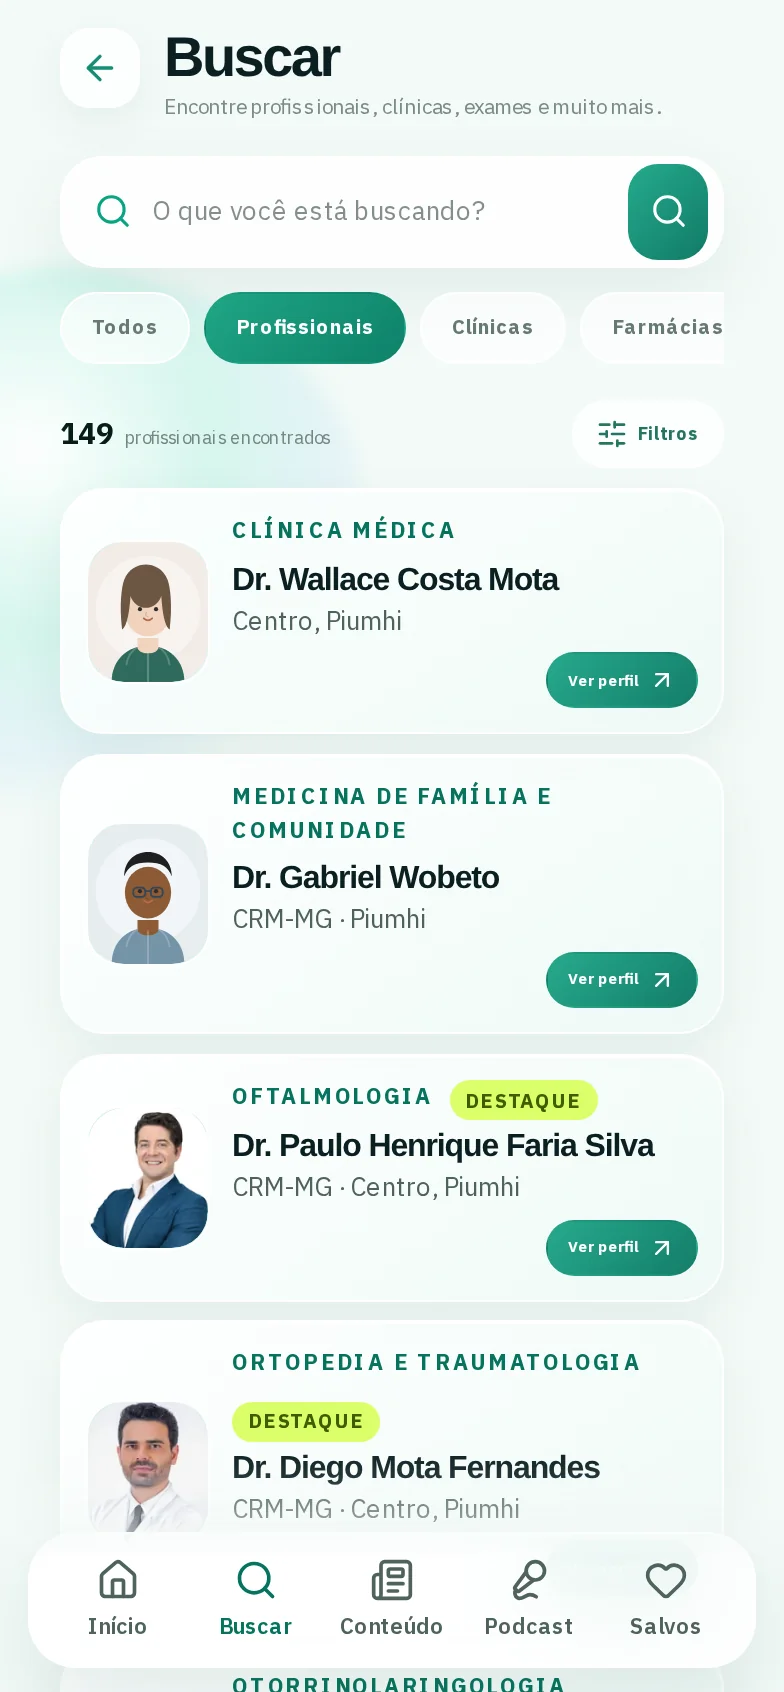
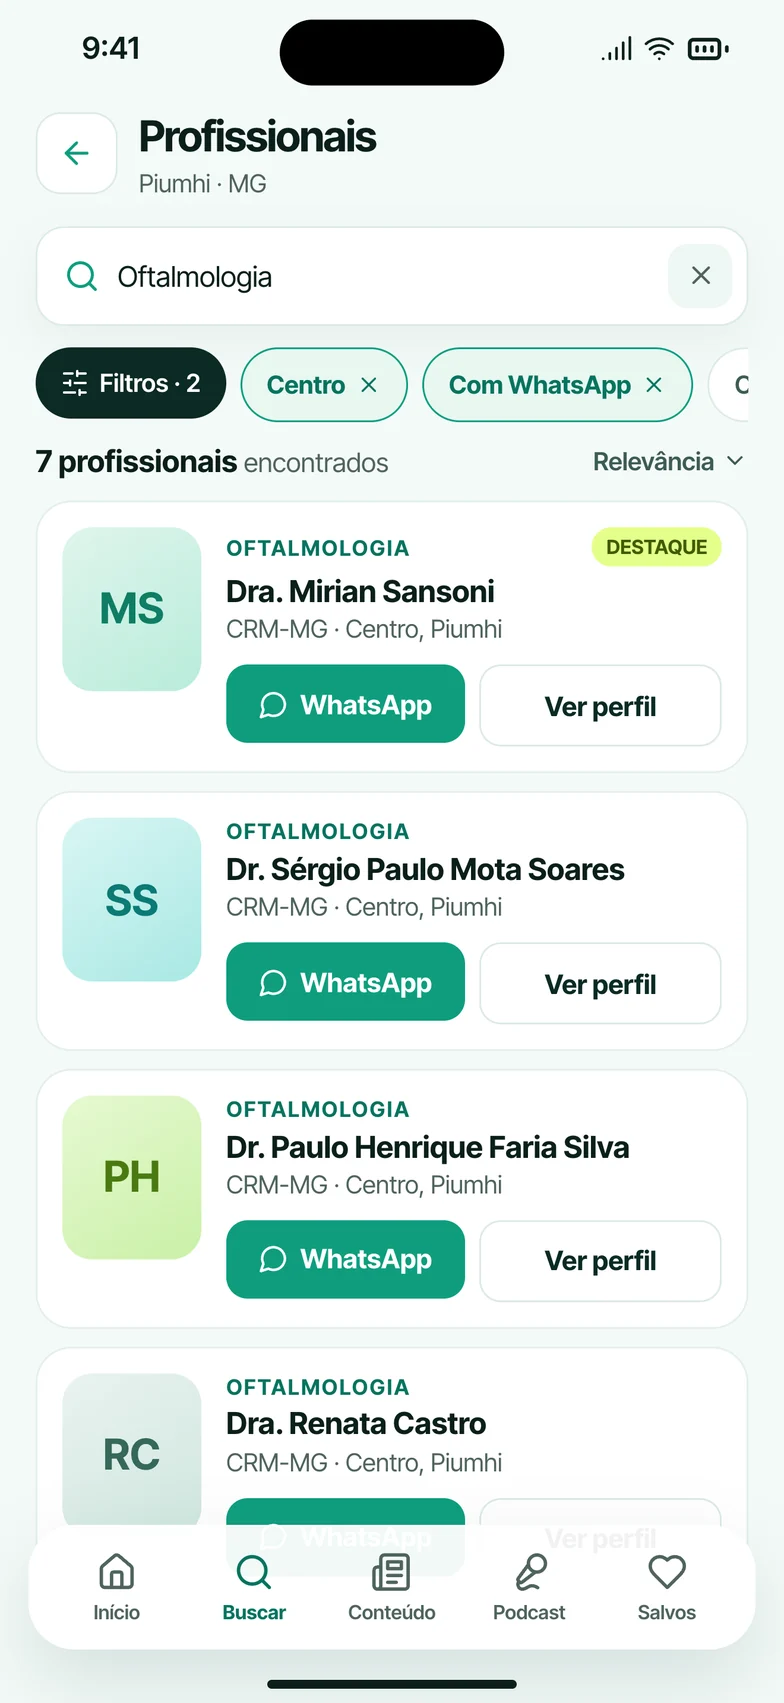
Guia Saúde: usa as telas do app enviadas
- Substitui as capturas do site pelas 5 telas do app (início,
  profissionais, perfil, clínicas e serviços, conteúdos), em WebP
  784x1703, e remove as capturas que ficaram sem uso.
- Três jornadas e textos ajustados ao que as telas mostram; grade
  isométrica com 5 telas; fileira com as 5 telas (centralizada em telas
  grandes).
- Sem notch sobreposto: as telas já trazem barra de status e ilha.

Claude-Session: https://claude.ai/code/session_01RL4gpbQEMJyEMfkodK1G9J

diff --git a/public/projetos/guia-saude/index.html b/public/projetos/guia-saude/index.html
@@ -48,9 +48,9 @@
       </div>
       <div class="a-hero-art" aria-label="Telas do Guia Saúde empilhadas em perspectiva">
         <div class="a-iso a-iso-phones">
-          <div class="a-iso-layer" style="--i:0"><img src="./gs-perfil.webp" alt="Perfil de profissional no Guia Saúde" width="784" height="1692"></div>
-          <div class="a-iso-layer" style="--i:1"><img src="./gs-buscar.webp" alt="Busca de profissionais no Guia Saúde" width="784" height="1692"></div>
-          <div class="a-iso-layer" style="--i:2"><img src="./gs-home.webp" alt="Tela inicial do Guia Saúde" width="784" height="1692"></div>
+          <div class="a-iso-layer" style="--i:0"><img src="./gs-perfil.webp" alt="Perfil de profissional no Guia Saúde" width="784" height="1703"></div>
+          <div class="a-iso-layer" style="--i:1"><img src="./gs-buscar.webp" alt="Busca de profissionais no Guia Saúde" width="784" height="1703"></div>
+          <div class="a-iso-layer" style="--i:2"><img src="./gs-home.webp" alt="Tela inicial do Guia Saúde" width="784" height="1703"></div>
         </div>
       </div>
     </div>
@@ -101,8 +101,8 @@
   <section class="a-showcase" aria-label="O Guia Saúde no computador e no celular">
     <div class="wrap a-showcase-stage a-reveal">
       <div class="browser browser-lg"><span class="dots"></span><img src="./gs-w-home.webp" alt="Guia Saúde no navegador" loading="lazy" width="1600" height="1000"></div>
-      <div class="a-phone"><img src="./gs-home.webp" alt="Guia Saúde no celular" loading="lazy" width="784" height="1692"></div>
-      <div class="a-phone a-phone-2"><img src="./gs-perfil.webp" alt="Perfil de profissional no celular" loading="lazy" width="784" height="1692"></div>
+      <div class="a-phone"><img src="./gs-home.webp" alt="Guia Saúde no celular" loading="lazy" width="784" height="1703"></div>
+      <div class="a-phone a-phone-2"><img src="./gs-perfil.webp" alt="Perfil de profissional no celular" loading="lazy" width="784" height="1703"></div>
     </div>
     <div class="wrap a-showcase-caption a-reveal">
       <p>No computador ou no celular, o mesmo caminho curto: dizer o que precisa, comparar com contexto e entrar em contato na hora.</p>
@@ -116,12 +116,11 @@
     </div>
     <div class="a-panel-stage a-reveal">
       <div class="a-grid">
-        <div class="a-tile"><img src="./gs-buscar.webp" alt="" loading="lazy" width="784" height="1692"></div>
-        <div class="a-tile"><img src="./gs-servicos.webp" alt="" loading="lazy" width="784" height="1692"></div>
-        <div class="a-tile"><img src="./gs-conteudos.webp" alt="" loading="lazy" width="784" height="1692"></div>
-        <div class="a-tile"><img src="./gs-podcast.webp" alt="" loading="lazy" width="784" height="1692"></div>
-        <div class="a-tile a-tile-device"><div class="a-device"><img src="./gs-home.webp" alt="Tela inicial do Guia Saúde em destaque" loading="lazy" width="784" height="1692"></div></div>
-        <div class="a-tile"><img src="./gs-perfil.webp" alt="" loading="lazy" width="784" height="1692"></div>
+        <div class="a-tile"><img src="./gs-buscar.webp" alt="" loading="lazy" width="784" height="1703"></div>
+        <div class="a-tile"><img src="./gs-servicos.webp" alt="" loading="lazy" width="784" height="1703"></div>
+        <div class="a-tile"><img src="./gs-conteudos.webp" alt="" loading="lazy" width="784" height="1703"></div>
+                <div class="a-tile a-tile-device"><div class="a-device"><img src="./gs-home.webp" alt="Tela inicial do Guia Saúde em destaque" loading="lazy" width="784" height="1703"></div></div>
+        <div class="a-tile"><img src="./gs-perfil.webp" alt="" loading="lazy" width="784" height="1703"></div>
       </div>
     </div>
   </section>
@@ -129,40 +128,26 @@
   <section class="a-light a-journeys">
     <div class="wrap">
       <article class="a-journey a-reveal">
-        <div class="a-journey-text"><span class="a-num">01</span><h3 class="a-title">Comece pelo que você precisa.</h3><p>A entrada pergunta “qual cuidado você procura hoje?” e oferece busca por especialidade, atalhos para médicos, clínicas, exames e farmácias, além dos destaques da região.</p></div>
-        <div class="a-journey-art"><div class="a-pair"><div class="a-device a-device-sm back"><img src="./gs-servicos.webp" alt="Tela de serviços" loading="lazy" width="784" height="1692"></div><div class="a-device a-device-sm"><img src="./gs-home.webp" alt="Tela inicial" loading="lazy" width="784" height="1692"></div></div></div>
+        <div class="a-journey-text"><span class="a-num">01</span><h3 class="a-title">Comece pelo que você precisa.</h3><p>“Olá! Qual cuidado você procura hoje?” A entrada traz busca por especialidade ou profissional, atalhos para médicos, clínicas, exames e farmácias, especialidades em um toque e os destaques da região. Em Clínicas e serviços, cada categoria mostra quantos locais existem e o que está perto, com horário e botão para ligar.</p></div>
+        <div class="a-journey-art"><div class="a-pair"><div class="a-device a-device-sm back"><img src="./gs-servicos.webp" alt="Tela Clínicas e serviços" loading="lazy" width="784" height="1703"></div><div class="a-device a-device-sm"><img src="./gs-home.webp" alt="Tela inicial" loading="lazy" width="784" height="1703"></div></div></div>
       </article>
       <article class="a-journey a-journey-rev a-reveal">
-        <div class="a-journey-text"><span class="a-num">02</span><h3 class="a-title">Compare com contexto.</h3><p>A busca lista profissionais com especialidade e local. O perfil mostra áreas de atuação, locais de atendimento e registro profissional — com botões para ligar e traçar a rota.</p></div>
-        <div class="a-journey-art"><div class="a-pair"><div class="a-device a-device-sm back"><img src="./gs-buscar.webp" alt="Tela de busca" loading="lazy" width="784" height="1692"></div><div class="a-device a-device-sm"><img src="./gs-perfil.webp" alt="Tela de perfil" loading="lazy" width="784" height="1692"></div></div></div>
+        <div class="a-journey-text"><span class="a-num">02</span><h3 class="a-title">Compare com contexto.</h3><p>A busca combina filtros como bairro e atendimento por WhatsApp e lista cada profissional com especialidade, registro e local. No perfil, áreas de atuação, local de atendimento e dois botões que resolvem: WhatsApp e Como chegar.</p></div>
+        <div class="a-journey-art"><div class="a-pair"><div class="a-device a-device-sm back"><img src="./gs-buscar.webp" alt="Tela Profissionais" loading="lazy" width="784" height="1703"></div><div class="a-device a-device-sm"><img src="./gs-perfil.webp" alt="Tela de perfil" loading="lazy" width="784" height="1703"></div></div></div>
       </article>
       <article class="a-journey a-reveal">
-        <div class="a-journey-text"><span class="a-num">03</span><h3 class="a-title">Informação também é cuidado.</h3><p>Matérias com especialistas locais, o Podcast Conexão Saúde e a Revista Guia Saúde ampliam o guia para além da busca — e trazem as pessoas de volta.</p></div>
-        <div class="a-journey-art"><div class="a-pair"><div class="a-device a-device-sm back"><img src="./gs-podcast.webp" alt="Tela do podcast" loading="lazy" width="784" height="1692"></div><div class="a-device a-device-sm"><img src="./gs-conteudos.webp" alt="Tela de conteúdos" loading="lazy" width="784" height="1692"></div></div></div>
-      </article>
-      <article class="a-journey a-journey-rev a-reveal">
-        <div class="a-journey-text"><span class="a-num">04</span><h3 class="a-title">Um canal para quem cuida.</h3><p>Profissionais, clínicas e marcas divulgam seu trabalho no portal, nas matérias, no podcast e na revista — e quem usa o guia salva os favoritos para voltar depois.</p></div>
-        <div class="a-journey-art"><div class="a-pair"><div class="a-device a-device-sm back"><img src="./gs-favoritos.webp" alt="Tela de favoritos" loading="lazy" width="784" height="1692"></div><div class="a-device a-device-sm"><img src="./gs-anuncie.webp" alt="Tela anuncie" loading="lazy" width="784" height="1692"></div></div></div>
+        <div class="a-journey-text"><span class="a-num">03</span><h3 class="a-title">Informação também é cuidado.</h3><p>Matérias, o Podcast Conexão Saúde e a Revista Guia Saúde vivem na mesma aba de Conteúdos, com player sempre à mão. No perfil, um episódio relacionado aproxima o conteúdo do profissional — e traz as pessoas de volta.</p></div>
+        <div class="a-journey-art"><div class="a-pair"><div class="a-device a-device-sm back"><img src="./gs-perfil.webp" alt="Tela de perfil com episódio do podcast" loading="lazy" width="784" height="1703"></div><div class="a-device a-device-sm"><img src="./gs-conteudos.webp" alt="Tela de conteúdos" loading="lazy" width="784" height="1703"></div></div></div>
       </article>
     </div>
   </section>
 
   <section class="a-ribbon" aria-label="Todas as telas do Guia Saúde">
     <div class="wrap a-ribbon-head">
-      <div><div class="eyebrow">Telas</div><h2 class="a-title">Nove telas, um guia completo.</h2></div>
+      <div><div class="eyebrow">Telas</div><h2 class="a-title">As telas do app.</h2></div>
       <span class="a-hint">Arraste para o lado →</span>
     </div>
-    <div class="a-ribbon-track a-reveal">
-      <figure class="a-screen"><div class="a-screen-img"><img src="./gs-home.webp" alt="Tela Início" loading="lazy" width="784" height="1692"></div><figcaption><strong>Início</strong>Busca e destaques logo na entrada.</figcaption></figure>
-      <figure class="a-screen"><div class="a-screen-img"><img src="./gs-buscar.webp" alt="Tela Profissionais" loading="lazy" width="784" height="1692"></div><figcaption><strong>Profissionais</strong>Lista com especialidade e local.</figcaption></figure>
-      <figure class="a-screen"><div class="a-screen-img"><img src="./gs-servicos.webp" alt="Tela Serviços" loading="lazy" width="784" height="1692"></div><figcaption><strong>Serviços</strong>Categorias com a quantidade de opções.</figcaption></figure>
-      <figure class="a-screen"><div class="a-screen-img"><img src="./gs-perfil.webp" alt="Tela Perfil" loading="lazy" width="784" height="1692"></div><figcaption><strong>Perfil</strong>Especialidades, locais e contato.</figcaption></figure>
-      <figure class="a-screen"><div class="a-screen-img"><img src="./gs-favoritos.webp" alt="Tela Salvos" loading="lazy" width="784" height="1692"></div><figcaption><strong>Salvos</strong>Profissionais guardados no aparelho.</figcaption></figure>
-      <figure class="a-screen"><div class="a-screen-img"><img src="./gs-conteudos.webp" alt="Tela Conteúdos" loading="lazy" width="784" height="1692"></div><figcaption><strong>Conteúdos</strong>Matérias confiáveis sobre saúde.</figcaption></figure>
-      <figure class="a-screen"><div class="a-screen-img"><img src="./gs-podcast.webp" alt="Tela Podcast" loading="lazy" width="784" height="1692"></div><figcaption><strong>Podcast</strong>Episódios do Conexão Saúde.</figcaption></figure>
-      <figure class="a-screen"><div class="a-screen-img"><img src="./gs-revista.webp" alt="Tela Revista" loading="lazy" width="784" height="1692"></div><figcaption><strong>Revista</strong>Edições da Revista Guia Saúde.</figcaption></figure>
-      <figure class="a-screen"><div class="a-screen-img"><img src="./gs-anuncie.webp" alt="Tela Anuncie" loading="lazy" width="784" height="1692"></div><figcaption><strong>Anuncie</strong>Divulgação para profissionais e marcas.</figcaption></figure>
-    </div>
+    <div class="a-ribbon-track a-reveal"><figure class="a-screen"><div class="a-screen-img"><img src="./gs-home.webp" alt="Tela Início do Guia Saúde" loading="lazy" width="784" height="1703"></div><figcaption><strong>Início</strong>Busca, atalhos e destaques na entrada.</figcaption></figure><figure class="a-screen"><div class="a-screen-img"><img src="./gs-buscar.webp" alt="Tela Profissionais do Guia Saúde" loading="lazy" width="784" height="1703"></div><figcaption><strong>Profissionais</strong>Filtros, WhatsApp e perfil em um toque.</figcaption></figure><figure class="a-screen"><div class="a-screen-img"><img src="./gs-perfil.webp" alt="Tela Perfil do Guia Saúde" loading="lazy" width="784" height="1703"></div><figcaption><strong>Perfil</strong>Atuação, local e como chegar.</figcaption></figure><figure class="a-screen"><div class="a-screen-img"><img src="./gs-servicos.webp" alt="Tela Clínicas e serviços do Guia Saúde" loading="lazy" width="784" height="1703"></div><figcaption><strong>Clínicas e serviços</strong>Categorias e o que está perto de você.</figcaption></figure><figure class="a-screen"><div class="a-screen-img"><img src="./gs-conteudos.webp" alt="Tela Conteúdos do Guia Saúde" loading="lazy" width="784" height="1703"></div><figcaption><strong>Conteúdos</strong>Matérias, podcast e revista.</figcaption></figure></div>
   </section>
 
   <section class="a-integrations">

diff --git a/public/index.html b/public/index.html
@@ -59,7 +59,7 @@
   <header><div class="wrap nav"><a class="brand" href="#top" aria-label="37LAB">37</a><nav class="navlinks"><a href="#projetos">Projetos</a><a href="#servicos">Serviços</a><a href="/sobre/">Sobre</a><a href="/contato/">Contato</a></nav><a class="outline" href="/contato/">Começar um projeto <span class="arrow">→</span></a><button class="menu-toggle" aria-label="Abrir menu" aria-expanded="false">☰</button></div><nav class="mobile-menu" aria-label="Menu mobile"><a href="#projetos">Projetos</a><a href="#servicos">Serviços</a><a href="/sobre/">Sobre</a><a href="/contato/">Contato</a></nav></header>
   <main id="top">
     <section class="hero"><div class="wrap hero-grid"><div class="hero-copy"><div class="eyebrow">Digital product studio</div><h1>Produtos digitais que resolvem problemas reais.</h1><p>A 37LAB transforma ideias em aplicativos, plataformas e soluções digitais com estratégia, design e tecnologia.</p><div class="actions"><a class="primary" href="#projetos">Explorar produtos <span class="arrow">→</span></a><a class="text-link" href="/contato/">Fale com a 37LAB</a></div><div class="hero-note"><div><b>01</b>Estratégia e produto</div><div><b>02</b>Design e desenvolvimento</div><div><b>03</b>Tecnologia com impacto real</div></div></div><div class="phones" aria-label="Mockups dos produtos Vinde, analyzai e Guia Saúde"><div class="phone one real-home-screen"><img src="/projetos/vinde/vinde-hoje.webp" alt="Tela inicial real do Vinde"></div><div class="phone two real-home-screen"><img src="/projetos/guia-saude/gs-home.webp" alt="Tela inicial real do Guia Saúde"></div><div class="phone three real-home-screen"><img src="/projetos/analyzai/az-app-dashboard.webp" alt="Dashboard real do analyzai"></div></div></div></section>
-    <section id="projetos"><div class="wrap"><div class="section-head"><div><div class="eyebrow">Nossos projetos</div><h2>Produtos reais.<br>Resultados reais.</h2></div><p>Produtos próprios e soluções digitais sob medida para empresas que querem inovar e criar novas experiências.</p></div><div class="projects"><article class="project"><h3><img class="product-logo" src="/logos/analyzai.svg" alt="analyzai" width="112" height="28"></h3><p>Inteligência comercial para vender mais, recomprar melhor e automatizar o relacionamento com clientes.</p><div class="tags"><span class="tag">SaaS</span><span class="tag">IA</span><span class="tag">CRM</span><span class="tag">Automação</span></div><a class="link" href="projetos/analyzai/">Ver estudo do produto <span class="arrow">→</span></a><div class="project-art"><img src="/projetos/analyzai/az-app-dashboard.webp" alt="Dashboard do analyzai" loading="lazy" width="784" height="1692"></div></article><article class="project"><h3><img class="product-logo" src="/logos/vinde.svg" alt="Vinde" width="124" height="30"></h3><p>Uma plataforma digital para conectar fé, comunidade, eventos e serviços.</p><div class="tags"><span class="tag">App</span><span class="tag">Marketplace</span><span class="tag">Conteúdo</span></div><a class="link" href="projetos/vinde/">Ver estudo do produto <span class="arrow">→</span></a><div class="project-art"><img src="/projetos/vinde/vinde-hoje.webp" alt="Tela do Vinde" loading="lazy" width="784" height="1692"></div></article><article class="project"><h3><img class="product-logo" src="/logos/guia-saude.svg" alt="Guia Saúde" width="142" height="30"></h3><p>Um diretório local que facilita a busca por profissionais e serviços de saúde.</p><div class="tags"><span class="tag">Plataforma</span><span class="tag">Diretório</span><span class="tag">Conteúdo</span></div><a class="link" href="projetos/guia-saude/">Ver estudo do produto <span class="arrow">→</span></a><div class="project-art"><img src="/projetos/guia-saude/gs-home.webp" alt="Tela do Guia Saúde" loading="lazy" width="784" height="1692"></div></article></div></div></section>
+    <section id="projetos"><div class="wrap"><div class="section-head"><div><div class="eyebrow">Nossos projetos</div><h2>Produtos reais.<br>Resultados reais.</h2></div><p>Produtos próprios e soluções digitais sob medida para empresas que querem inovar e criar novas experiências.</p></div><div class="projects"><article class="project"><h3><img class="product-logo" src="/logos/analyzai.svg" alt="analyzai" width="112" height="28"></h3><p>Inteligência comercial para vender mais, recomprar melhor e automatizar o relacionamento com clientes.</p><div class="tags"><span class="tag">SaaS</span><span class="tag">IA</span><span class="tag">CRM</span><span class="tag">Automação</span></div><a class="link" href="projetos/analyzai/">Ver estudo do produto <span class="arrow">→</span></a><div class="project-art"><img src="/projetos/analyzai/az-app-dashboard.webp" alt="Dashboard do analyzai" loading="lazy" width="784" height="1692"></div></article><article class="project"><h3><img class="product-logo" src="/logos/vinde.svg" alt="Vinde" width="124" height="30"></h3><p>Uma plataforma digital para conectar fé, comunidade, eventos e serviços.</p><div class="tags"><span class="tag">App</span><span class="tag">Marketplace</span><span class="tag">Conteúdo</span></div><a class="link" href="projetos/vinde/">Ver estudo do produto <span class="arrow">→</span></a><div class="project-art"><img src="/projetos/vinde/vinde-hoje.webp" alt="Tela do Vinde" loading="lazy" width="784" height="1692"></div></article><article class="project"><h3><img class="product-logo" src="/logos/guia-saude.svg" alt="Guia Saúde" width="142" height="30"></h3><p>Um diretório local que facilita a busca por profissionais e serviços de saúde.</p><div class="tags"><span class="tag">Plataforma</span><span class="tag">Diretório</span><span class="tag">Conteúdo</span></div><a class="link" href="projetos/guia-saude/">Ver estudo do produto <span class="arrow">→</span></a><div class="project-art"><img src="/projetos/guia-saude/gs-home.webp" alt="Tela do Guia Saúde" loading="lazy" width="784" height="1703"></div></article></div></div></section>
     <section id="servicos" class="services"><div class="wrap"><div class="split"><div><div class="eyebrow">O que fazemos</div><h2>Tecnologia para ideias que importam.</h2></div><div><p>Desenvolvemos produtos digitais com foco em pessoas, negócios e impacto real.</p><div class="service-grid"><div class="service"><div class="icon"><svg viewBox="0 0 24 24"><rect x="6" y="2.5" width="12" height="19" rx="2"/><path d="M10 18.5h4"/></svg></div><h3>Aplicativos</h3><p>Experiências para iOS e Android.</p></div><div class="service"><div class="icon"><svg viewBox="0 0 24 24"><rect x="3" y="4" width="18" height="12" rx="1.5"/><path d="M8 20h8M12 16v4"/></svg></div><h3>Plataformas</h3><p>SaaS, marketplaces e sistemas.</p></div><div class="service"><div class="icon"><svg viewBox="0 0 24 24"><path d="M12 3a4 4 0 0 0-4 4v1.5a4 4 0 0 0 0 7.5V18a4 4 0 0 0 8 0v-2a4 4 0 0 0 0-7.5V7a4 4 0 0 0-4-4Z"/><path d="M8 10h8M8 14h8"/></svg></div><h3>Inteligência Artificial</h3><p>IA integrada a produtos reais.</p></div><div class="service"><div class="icon"><svg viewBox="0 0 24 24"><path d="M12 3v4M12 17v4M3 12h4M17 12h4M5.6 5.6l2.8 2.8M15.6 15.6l2.8 2.8M18.4 5.6l-2.8 2.8M8.4 15.6l-2.8 2.8"/><circle cx="12" cy="12" r="3.5"/></svg></div><h3>Do zero ao lançamento</h3><p>Estratégia, design e publicação.</p></div><div class="service"><div class="icon"><svg viewBox="0 0 24 24"><path d="M8 8h8v8H8z"/><path d="M3 8v3h5M21 16v-3h-5M8 3h3v5M16 21h-3v-5"/></svg></div><h3>Integrações e automações</h3><p>Conectamos ferramentas e processos.</p></div><div class="service"><div class="icon"><svg viewBox="0 0 24 24"><path d="M18 10a6 6 0 0 0-12 0v5a2 2 0 0 0 2 2h2v-5H6M18 10v7h-2v-5h2M16 17a3 3 0 0 1-3 3h-1"/></svg></div><h3>Suporte e evolução</h3><p>Acompanhamento e novas funcionalidades.</p></div></div></div></div><div class="positioning"><div><div class="eyebrow">Nosso ponto de partida</div><h3>Tecnologia não é o ponto de partida.<br>O problema é.</h3></div><p>A gente entende o desafio, desenha a solução e transforma a ideia em produto. <strong>Do primeiro rascunho à evolução contínua.</strong></p></div><div class="process" id="sobre"><div class="eyebrow">Como trabalhamos</div><div class="split"><h2>Da ideia ao<br>produto funcionando.</h2><div class="steps"><div class="step"><div class="num">01</div><h3>Estratégia</h3><p>Entendemos a ideia e estruturamos o produto.</p></div><div class="step"><div class="num">02</div><h3>Design</h3><p>Criamos toda a experiência e interface.</p></div><div class="step"><div class="num">03</div><h3>Desenvolvimento</h3><p>Transformamos o projeto em um produto real.</p></div><div class="step"><div class="num">04</div><h3>Lançamento</h3><p>Publicação, infraestrutura e evolução contínua.</p></div></div></div></div></div></section>
     <section id="contato" class="cta"><div class="wrap"><div class="cta-box"><div><div class="eyebrow">Vamos criar o próximo?</div><h2>Tem uma ideia?</h2><p>Conte o que você quer construir e vamos conversar sobre o próximo passo.</p></div><a class="primary" href="/contato/">Começar um projeto <span class="arrow">→</span></a><div class="cta-note">Boas ideias<br>mudam<br>realidades.</div></div></div></section>
   </main>

diff --git a/public/projetos/guia-saude/case.css b/public/projetos/guia-saude/case.css
@@ -203,3 +203,7 @@ body.case-guia{--a-bg:#EEF5F2;--a-card:#FFFFFF;--a-line:#D9E8E2;--a-ink:#0B1518;
 .g-stat span{display:block;margin-top:8px;color:var(--a-muted);font-size:14px}
 .a-btn{background:var(--a-green);color:#fff}
 @media(max-width:760px){.g-stats-row{grid-template-columns:repeat(2,minmax(0,1fr))}.g-stat{padding:24px 16px}.g-stat:nth-child(3){border-left:0;padding-left:0}.g-stat:nth-child(n+3){border-top:1px solid var(--a-line)}}
+/* As telas enviadas já trazem barra de status e ilha do iPhone: sem notch sobreposto */
+.case-guia .a-device:after,.case-guia .a-phone:after{display:none}
+.case-guia .a-ribbon-track{justify-content:flex-start}
+@media(min-width:1240px){.case-guia .a-ribbon-track{justify-content:center}.case-guia .a-hint{display:none}}
